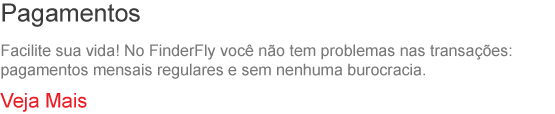
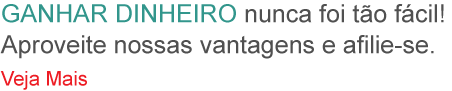
Slider

Changed region(s): [[0.0, 0.3736, 0.9602, 0.7033], [0.0, 0.022, 0.9912, 0.2637], [0.0, 0.7692, 0.2168, 0.989]]

diff --git a/public/css/style.css b/public/css/style.css
@@ -11164,3 +11164,32 @@ width: 126px;
    color: #ACACAC;  
    font: 15px "Arimo", arial, sans-serif;
 }
+
+.text-banner-002{
+  color: #787878;
+text-align: right;
+font-size: 20px;
+font-weight: 100;
+line-height: 30px;
+}
+
+.text-banner-002 span{
+  color: #f15a29;
+font-size: 30px;
+}
+
+.text-banner-001{
+  color: #787878;
+font-size: 20px;
+line-height: 30px;
+}
+
+.text-banner-001 span{
+  color: #32968c;
+font-size: 25px;
+}
+
+.text-banner-001 span:last-child{
+  color: #ed1c24;
+font-size: 25px;
+}

diff --git a/app/views/slider/slider.blade.php b/app/views/slider/slider.blade.php
@@ -14,7 +14,8 @@
 						data-endspeed="500"
 						data-endeasing="Power1.easeIn"
 						style="z-index: 2">
-						<img src="img/finderfly/banner-001-01.png"  class = "link-banner" data-scroll = "pagamentos" style="cursor:pointer" width="555" height="114" alt="">
+						<p class = "text-banner-001"><span>GANHAR DINHEIRO</span> nunca foi t&atilde;o f&aacute;cil!<br>Aproveite nossas vantagens e afilie-se.<br><span>Veja Mais</span></p>
+						<!--<img src="img/finderfly/banner-001-01.png"  class = "link-banner" data-scroll = "pagamentos" style="cursor:pointer" width="555" height="114" alt="">-->
 						</div>
 
 						<div class="tp-caption lft"
@@ -234,11 +235,11 @@
 					data-endspeed="500"
 					data-endeasing="Power1.easeIn"
 					style="z-index: 3">
-					<img src="img/finderfly/banner-002-01.png" width="672" height="320" alt="">
+					<img src="img/banners/banner-002-01.png" width="452" height="320" alt="">
 					</div>
 
 					<div class="tp-caption lfb skewtobottom"
-					data-x="590"
+					data-x="370"
 					data-y="0"
 					data-speed="1000"
 					data-start="1000"
@@ -246,11 +247,11 @@
 					data-endspeed="400"
 					data-endeasing="Power1.easeIn"
 					style="z-index: 1">
-					<img src="img/finderfly/banner-002-02.png" width="309" height="320" alt="">
+					<img src="img/banners/banner-002-02.png" width="192" height="320" alt="">
 					</div>
 
 					<div class="tp-caption lfr skewtoright description cm-description-2"
-					data-x="900"
+					data-x="420"
 					data-y="0"
 					data-speed="1000"
 					data-start="1500"
@@ -258,11 +259,11 @@
 					data-endspeed="400"
 					data-endeasing="Power1.easeIn"
 					style="max-width: 600px;">
-					<img src="img/finderfly/banner-002-03.png" width="316" height="320" alt="">
+					<img src="img/banners/banner-002-03.png" width="746" height="320" alt="">
 					</div>
 
 					<div class="tp-caption lfr skewtoright description cm-description-2"
-					data-x="650"
+					data-x="770"
 					data-y="10"
 					data-speed="1000"
 					data-start="2000"
@@ -270,7 +271,8 @@
 					data-endspeed="400"
 					data-endeasing="Power1.easeIn"
 					style="max-width: 600px;">
-					<img src="img/finderfly/banner-002-04.png" width="504" height="137" alt="" class = "link-banner" data-scroll = "formatos" style="cursor: pointer">
+					<p class = "text-banner-002">Oferecemos as melhores <span>oportunidades</span><br> de neg&oacute;cios aos nossos afiliados.<br> Lucre e ganhe visibilidade<br> atrav&eacute;s de m&iacute;dias sociais.</p>
+					<!--<img src="img/finderfly/banner-002-04.png" width="504" height="137" alt="" class = "link-banner" data-scroll = "formatos" style="cursor: pointer">-->
 					</div>
 
 					<!--<a href="http://themeforest.net/item/progressive-multipurpose-responsive-template/7197521"
@@ -355,7 +357,7 @@
 					CSS3
 					</div>
 				</div>-->
-				<img src="img/finderfly/banner-002.png" alt="" data-bgfit="contain" data-bgposition="center top" data-bgrepeat="no-repeat">
+				<img src="img/banners/back-002.png" alt="" data-bgfit="contain" data-bgposition="center top" data-bgrepeat="no-repeat">
 			</li>
 
 			<!--<li data-delay="10300" data-transition="fade" data-slotamount="7" data-masterspeed="2000" class="slid2">

diff --git a/app/views/rodape/footer.blade.php b/app/views/rodape/footer.blade.php
@@ -7,7 +7,7 @@
 			<div id="fb-root"></div>
 				<div class = "cont-footer">
 					<div class="submenu">
-						<span class="titulo_rodape">Pricefinder</span>
+						<span class="titulo_rodape">PriceFinder</span>
 						<ul>
 							<li><a href="http://pricefinder.com.br/quem-somos" class="normal" target="_blank">Quem Somos</a></li>
 							<li><a href="http://pricefinder.com.br/termos-de-uso" class="normal" target="_blank">Termos de Uso</a></li>
@@ -38,9 +38,9 @@
 					<div class="submenu">
 						<span class="titulo_rodape">Produtos e Serviços</span>
 						<ul style="border-right: none;">
-							<li><a href="http://www.finderstore.com.br" class="normal" target="_blank">Finderstore - Loja Virtual</a></li>
-							<li><a href="http://www.finderpay.com.br" class="normal" target="_blank">Finderpay - Meio de Pagamento</a></li>
-							<li><a href="http://www.finderfly.com.br" class="normal" target="_blank">Finderfly - Programa de Afiliados</a></li>
+							<li><a href="http://www.finderstore.com.br" class="normal" target="_blank">FinderStore - Loja Virtual</a></li>
+							<li><a href="http://www.finderpay.com.br" class="normal" target="_blank">FinderPay - Meio de Pagamento</a></li>
+							<li><a href="http://www.finderfly.com.br" class="normal" target="_blank">FinderFly - Programa de Afiliados</a></li>
 						</ul>
 					</div>
 

diff --git a/app/views/contents/formatos.blade.php b/app/views/contents/formatos.blade.php
@@ -5,7 +5,7 @@
 			<div class="title-box">
 				<h2 class="title">Formatos</h2>
 			</div>
-			<p class="bottom-padding">Publishers e anunciantes que utilizam a Plataforma Finderfly contam com um leque variado de opções para a veiculação de campanhas publicitárias. Conheça abaixo os formatos que o programa oferece:</p><br>
+			<p class="bottom-padding">Publishers e anunciantes que utilizam a Plataforma FinderFly contam com um leque variado de opções para a veiculação de campanhas publicitárias. Conheça abaixo os formatos que o programa oferece:</p><br>
 		</div>
 		<div class="col-sm-6 col-md-6">
 			<div class="panel-group one-open" id="accordion">

diff --git a/app/views/contents/sobre_finderfly.blade.php b/app/views/contents/sobre_finderfly.blade.php
@@ -5,7 +5,7 @@
 
 		<div class="col-sm-12 col-md-12">
 			<div class="title-box">
-				<h2 class="title">Sobre o Finderfly</h2>
+				<h2 class="title">Sobre o FinderFly</h2>
 			</div>
 			<p>
 				O FinderFly oferece a mais completa plataforma para divulgação de publicidade na internet através das diferentes mídias sociais. Utilizando nossa plataforma juntamente com sua popularidade na internet é possível obter ganhos de forma fácil, rápida e prática, assim, o principal objetivo de nossa ferramenta é buscar as melhores oportunidades de negócios para os afiliados do programa.</p>

diff --git a/app/views/contents/banner_set.blade.php b/app/views/contents/banner_set.blade.php
@@ -4,7 +4,7 @@
 		<div class="banners">
 			<a href="#" class="banner link-banner" data-scroll = "sobre">
 				<img src="img/finderfly/Img-001.png" width="253" height="158" alt="">
-				<h2 class="title">O que é Finderfly?</h2>
+				<h2 class="title">O que é FinderFly?</h2>
 				<div class="description">A mais completa plataforma para divulgar publicidade através de diferentes mídias sociais. E tudo isso de forma rápida fácil e lucrativa. <span>Veja mais</span></div>
 			</a>
 			<a href="#" class="banner" style = "cursor: text">
